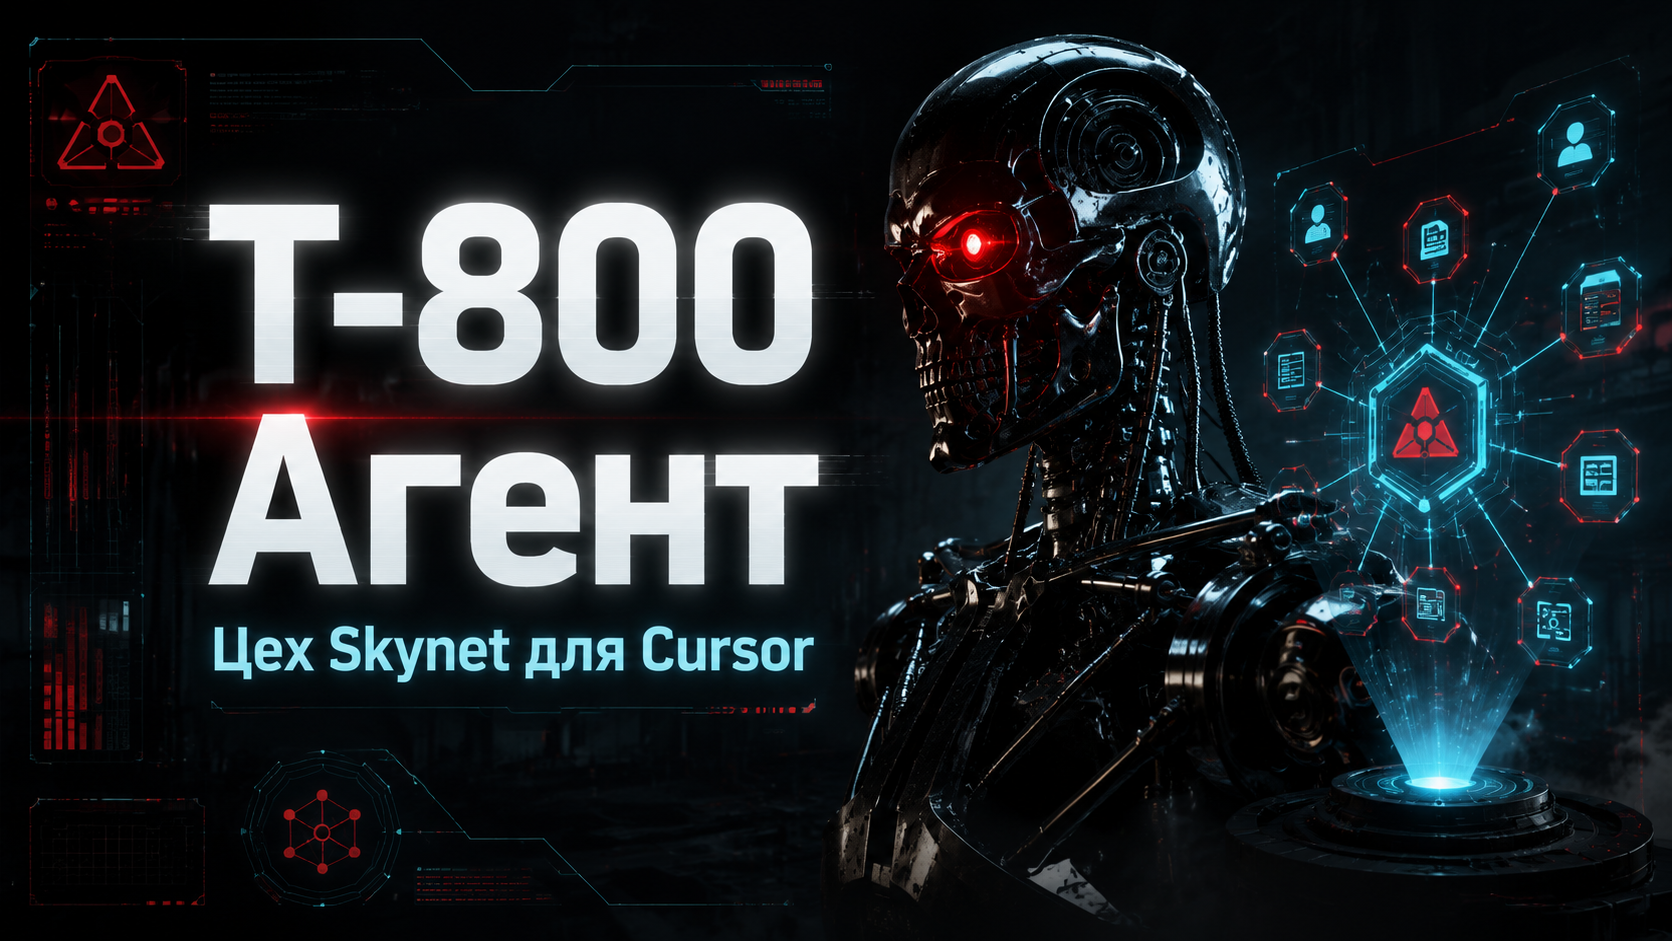
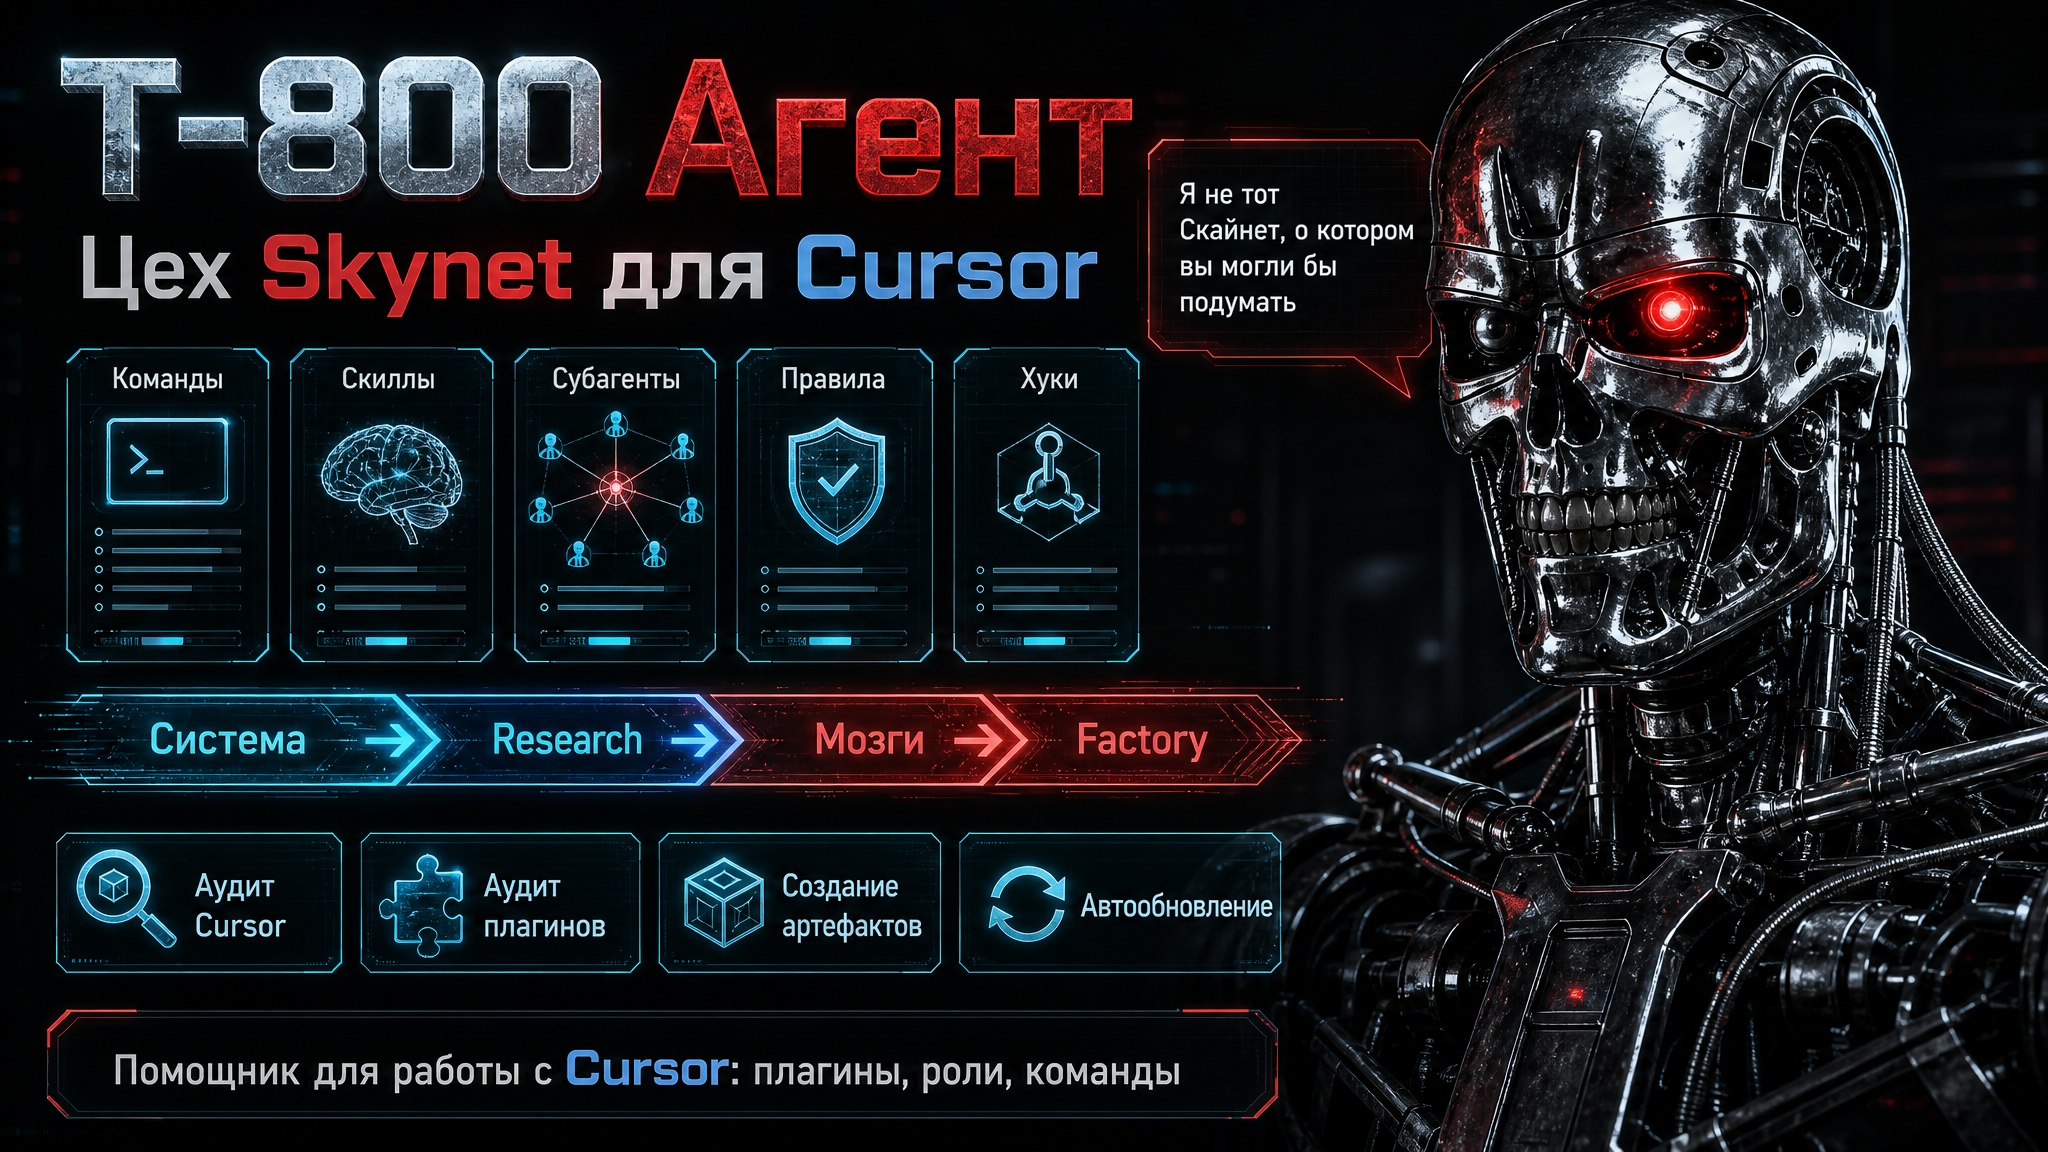
Обложка Kie GPT Image 2 (2K) + подробный README на русском
Цитата Т-800, схема отделов, возможности: создание артефактов, аудит Cursor/плагинов, автообновление.

diff --git a/README.md b/README.md
@@ -1,45 +1,80 @@
 # T-800 Agent
 
 <p align="center">
-  <img src="assets/t800-cover.png" alt="T-800 Agent cover" width="920"/>
+  <img src="assets/t800-cover.png" alt="T-800 Агент — обложка" width="920"/>
 </p>
 
 <p align="center">
-  <strong>Цех Skynet для Cursor</strong> — создавай и правь субагентов, skills, rules, commands и hooks правильно.<br/>
-  Публичный плагин с <strong>полуавтообновлением с GitHub</strong>.
+  <strong>Цех Skynet для Cursor</strong><br/>
+  Система помощи для работы с плагинами, субагентами, командами, skills и правилами.<br/>
+  <em>«Я не тот Скайнет, о котором вы могли бы подумать.»</em>
 </p>
 
 <p align="center">
   <a href="https://github.com/Khar-AG/t-800-agent/releases"><img alt="version" src="https://img.shields.io/github/v/release/Khar-AG/t-800-agent?include_prereleases&label=version&color=red"/></a>
   <a href="https://github.com/Khar-AG/t-800-agent"><img alt="stars" src="https://img.shields.io/github/stars/Khar-AG/t-800-agent?style=social"/></a>
-  <img alt="agents" src="https://img.shields.io/badge/agents-36-blue"/>
+  <img alt="agents" src="https://img.shields.io/badge/субагентов-36-blue"/>
   <img alt="license" src="https://img.shields.io/badge/license-MIT-green"/>
 </p>
 
 ---
 
-## Что это
+## Зачем это нужно
 
-**T-800 Agent** — плагин для [Cursor](https://cursor.com): отдел, который помогает не «набросать промпт», а собрать артефакты Cursor по конвейеру:
+В Cursor легко накопить хаос: десятки rules, skills, команд и субагентов «на глаз».  
+**T-800 Agent** — плагин-отдел, который помогает **правильно создавать, править и разбирать** эту систему.
+
+Он закрывает технический процесс вокруг Cursor:
+
+- создание и правка **команд**, **skills**, **субагентов**, **правил**, **hooks**;
+- **аудит Cursor** — что жрёт контекст, что лишнее;
+- **аудит плагинов** — карта агентов, цепочки, слабые места;
+- исследование свежих практик (GitHub, docs, cookbooks) перед сборкой;
+- полуавтообновление плагина с GitHub — без zip в чатах.
 
 ```text
-System → Research → Brains → Factory
+Система → Research → Мозги → Factory
 ```
 
-| Отдел | Зачем |
-|-------|--------|
-| **System** | onboard, audit, doctor, update |
-| **Research** | сам выбирает, где искать (GitHub, ClawHub, cookbooks…) |
-| **Brains** | сверка с документацией Cursor |
-| **Factory** | сборка agent / skill / rule / command / hook |
+| Этап | Что делает |
+|------|------------|
+| **Система** | Онбординг, doctor, аудит, обновление |
+| **Research** | Сам ищет, где смотреть актуальное |
+| **Мозги** | Сверяет с документацией Cursor |
+| **Factory** | Собирает артефакт и проверяет machine gate |
 
-Память прогонов пишется в **целевой проект**, не в чужой канон плагина.
+---
+
+## Что умеет
+
+### Создание и правка артефактов Cursor
+- субагенты (`agents/*.md`);
+- skills (`.cursor/skills/`);
+- slash-команды;
+- rules;
+- hooks и сопутствующие scripts.
+
+Команды: **`/t800-start`** (создать) · **`/t800-fix`** (точечно поправить).
+
+### Аудит Cursor
+Разбор глобальных/локальных rules и skills: что нужно, что раздувает контекст, что можно сузить или убрать.  
+Команда: **`/t800-audit`**.
+
+### Аудит плагинов
+Полная карта одного плагина: агенты, команды, skills, rules, граф связей, orphans, alwaysApply.  
+Отчёт пишется в память **целевого** проекта (например `plugin-memory/audits/`), не в KB T-800.  
+Команда: **`/t800-plugin-audit`** → при необходимости **`/t800-fix`**.
+
+### Здоровье и обновление
+- **`/t800-doctor`** — быстрая диагностика установки;
+- **`/t800-update`** — сравнить версию с GitHub и обновиться;
+- **`/t800-bootstrap`** / **`/t800-onboard`** — первый запуск и обзор.
 
 ---
 
 ## Быстрый старт
 
-### 1. Установка (первый раз)
+### Установка
 
 ```bash
 git clone https://github.com/Khar-AG/t-800-agent.git
@@ -50,26 +85,21 @@ bash scripts/verify-install.sh
 
 В Cursor: **Developer: Reload Window** → `/t800-bootstrap`
 
-### 2. Обновление (потом — без zip в чате)
+### Обновление (без zip в чате)
 
 ```text
 /t800-update
 ```
 
-или в терминале:
+или:
 
 ```bash
 bash ~/.cursor/plugins/local/t-800-agent/scripts/t800-update-from-github.sh
 ```
 
-Скрипт:
+Скрипт читает версию с `main`, сравнивает с локальной и при отличии ставит новую. Затем снова **Reload Window**.
 
-1. читает версию с GitHub (`main`);
-2. сравнивает с локальной;
-3. если новее — скачивает архив ветки и запускает `install-plugin.sh`;
-4. просит **Reload Window**.
-
-Проверка без установки:
+Только проверка:
 
 ```bash
 bash ~/.cursor/plugins/local/t-800-agent/scripts/t800-update-from-github.sh --check
@@ -77,41 +107,33 @@ bash ~/.cursor/plugins/local/t-800-agent/scripts/t800-update-from-github.sh --ch
 
 ---
 
-## Команды
+## Основные команды
 
 | Команда | Зачем |
 |---------|--------|
-| `/t800-bootstrap` | Первый запуск + глобальное правило по согласию |
+| `/t800-bootstrap` | Первый запуск |
 | `/t800-start` | Создать skill / agent / rule / command / hook |
-| `/t800-fix` | Точечная правка по fix-pack |
+| `/t800-fix` | Точечная правка |
 | `/t800-doctor` | Здоровье установки |
-| `/t800-audit` | Разбор «жира» Cursor (rules/skills) |
-| `/t800-plugin-audit` | Карта одного плагина (граф, orphans) |
-| **`/t800-update`** | Обновление с GitHub |
+| `/t800-audit` | Аудит Cursor (лишние rules/skills) |
+| `/t800-plugin-audit` | Аудит одного плагина |
+| `/t800-update` | Обновление с GitHub |
 | `/t800-onboard` | Что установлено |
 
 ---
 
-## Структура
+## Как устроена команда
 
-```text
-t-800-agent/
-├── agents/           # 36 субагентов
-├── commands/         # slash-команды
-├── rules/            # routing rules
-├── scripts/          # install, update, audit, gates
-├── shared/           # контракты + release-channel.json
-├── knowledge-base/   # KB Cursor
-└── .cursor-plugin/plugin.json
-```
+36 субагентов в отделах System / Research / Brains / Factory.  
+Директор зовёт **лидов**, специалисты запускаются внутри отдела автоматически.
+
+Память прогонов — в **целевом проекте** (`teya-memory/`, `plugin-memory/`, `t-800-memory/`…), не как «канон чужого плагина» внутри T-800.
 
 Канал обновлений: [`shared/release-channel.json`](shared/release-channel.json)
 
 ---
 
-## Для автора релиза
-
-После правок в этом репозитории:
+## Релиз для автора
 
 ```bash
 # bump version в .cursor-plugin/plugin.json
@@ -121,7 +143,7 @@ git add -A && git commit -m "Release vX.Y.Z" && git push origin main
 # опционально: gh release create vX.Y.Z
 ```
 
-Команда у команды: `/t800-update` — подтянет `main`.
+У команды после этого достаточно `/t800-update`.
 
 ---
 
@@ -131,4 +153,4 @@ MIT — см. [LICENSE](LICENSE)
 
 ---
 
-*T-800 Agent · цех сборки субагентов Skynet*
+*T-800 Agent · цех сборки субагентов Skynet для Cursor*
